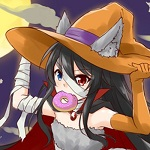
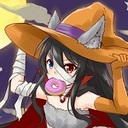
Resize & Convert all the staff members' images

diff --git a/index.html b/index.html
@@ -1,5 +1,5 @@
---- 
-layout: page 
+---
+layout: page
 ---
 
 <div id="content">
@@ -19,7 +19,7 @@ layout: page
             <h2 class="subtitle">The Management team keeps everything in line and manages major server and staff decisions.</h2>
             <div class="columns">
                 <div class="column">
-                    <a href="https://www.aerofusion.net/" rel="noopener noreferrer"><img class="someone ceo" alt="espi" src="/img/staff/aerofusion.png"></a>
+                    <a href="https://www.aerofusion.net/" rel="noopener noreferrer"><img class="someone ceo" alt="espi" src="/img/staff/aerofusion.jpg"></a>
                     <h3>AeroFusion (Espi)</h3>
                     <span class="tag is-ceo">👑 CEO</span>
                 </div>
@@ -31,7 +31,7 @@ layout: page
                 </div>
 
                 <div class="column">
-                    <a href="https://crashieblog.wordpress.com" rel="noopener noreferrer"><img class="someone manager" alt="crashie" src="/img/staff/crashie.png"></a>
+                    <a href="https://crashieblog.wordpress.com" rel="noopener noreferrer"><img class="someone manager" alt="crashie" src="/img/staff/crashie.jpg"></a>
                     <h3>Crashie (Kira)</h3>
                     <span class="tag is-manager">💼 Manager</span>
                 </div>
@@ -45,9 +45,9 @@ layout: page
                     <h3>TrashyClassy</h3>
                     <span class="tag is-manager">💼 Manager</span>
                 </div>
-              
+
                 <div class="column">
-                    <a href="https://therandommelon.xyz" rel="noopener noreferrer"><img class="someone manager" alt="trm" src="/img/staff/trm.png"></a>
+                    <a href="https://therandommelon.xyz" rel="noopener noreferrer"><img class="someone manager" alt="trm" src="/img/staff/trm.jpg"></a>
                     <h3>TRM (Michael)</h3>
                     <span class="tag is-manager">💼 Manager</span>
                 </div>
@@ -70,7 +70,7 @@ layout: page
                     <h3>Anidox (Sean)</h3>
                     <span class="tag is-admin">🔧 Administrator</span>
                 </div>
-               
+
 
                 <div class="column">
                     <a href="https://twitter.com/JakeBuildsStuff" rel="noopener noreferrer"><img class="someone admin" alt="jake" src="/img/staff/jake.jpg"></a>
@@ -78,12 +78,12 @@ layout: page
                     <span class="tag is-admin">🔧 Administrator</span>
                 </div>
   <div class="column">
-                    <a href="https://twitter.com/JjTheHusky" rel="noopener noreferrer"><img class="someone admin" alt="jj" src="/img/staff/jj.png"></a>
+                    <a href="https://twitter.com/JjTheHusky" rel="noopener noreferrer"><img class="someone admin" alt="jj" src="/img/staff/jj.jpg"></a>
                     <h3>Jj The Husky</h3>
                     <span class="tag is-admin">🔧 Administrator</span>
                 </div>
                 <div class="column">
-                    <a href="https://oskikiboy.me" rel="noopener noreferrer"><img class="someone admin" alt="oscar" src="/img/staff/oscar.png"></a>
+                    <a href="https://oskikiboy.me" rel="noopener noreferrer"><img class="someone admin" alt="oscar" src="/img/staff/oscar.jpg"></a>
                     <h3>oskikiboy (Oscar)</h3>
                     <span class="tag is-admin">🔧 Administrator</span>
                 </div>
@@ -96,19 +96,19 @@ layout: page
             <h2 class="subtitle">The Moderation team moderates the chat and answers questions asked by members.</h2>
             <div class="columns">
 
-              
+
              <div class="column">
                     <a href="https://www.youtube.com/channel/UC02PfCE-h3pUZGdTYwccCZA" rel="noopener noreferrer"><img class="someone mod" alt="dolphin" src="/img/staff/dolphin.jpg"></a>
                     <h3>Dolphin (Baiji)</h3>
                     <span class="tag is-mod">🔨 Moderator</span>
                 </div>
                 <div class="column">
-                    <a href="https://twitter.com/sei_sei_kijin/" rel="noopener noreferrer"><img class="someone mod" alt="seisei" src="/img/staff/seija.png"></a>
+                    <a href="https://twitter.com/sei_sei_kijin/" rel="noopener noreferrer"><img class="someone mod" alt="seisei" src="/img/staff/seija.jpg"></a>
                     <h3>Seija</h3>
                     <span class="tag is-mod">🔨 Moderator</span>
                 </div>
                 <div class="column">
-                    <a href="https://twitter.com/xTheJeebusx" rel="noopener noreferrer"><img class="someone mod" alt="john" src="/img/staff/john.png"></a>
+                    <a href="https://twitter.com/xTheJeebusx" rel="noopener noreferrer"><img class="someone mod" alt="john" src="/img/staff/john.jpg"></a>
                     <h3>TheJeebus (John)</h3>
                     <span class="tag is-mod">🔨 Moderator</span>
                 </div>
@@ -126,6 +126,6 @@ layout: page
             </div>
             </div>
         </div>
-      
+
     </div>
 </div>
